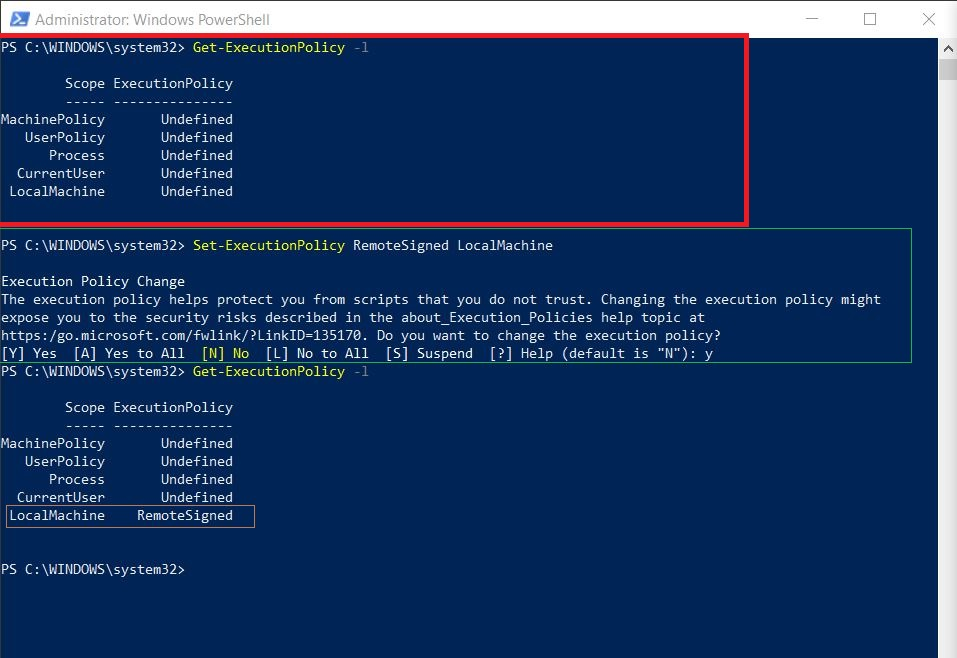
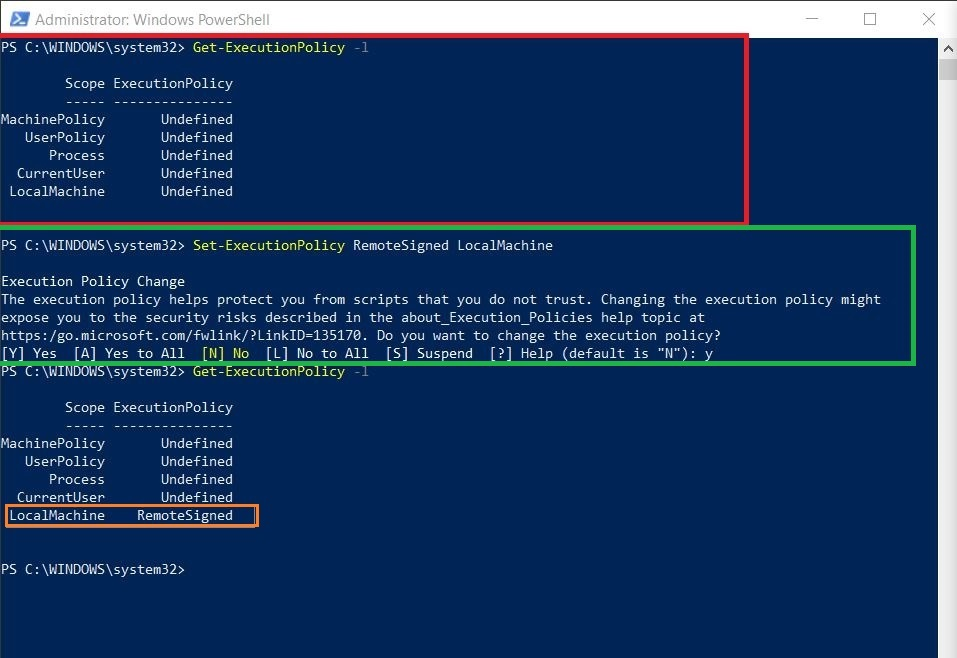
Finished

diff --git a/_posts/2018-01-25-doofus-developer-1-virusTotal-integration.md b/_posts/2018-01-25-doofus-developer-1-virusTotal-integration.md
@@ -43,17 +43,25 @@ imageFolder: "/images/2018-01-25-doofus-developer-1-virusTotal-integration"
 	
 	.youtubeDiv {
 		text-align:center;
+		margin: 10px 0;
 	}
 	
 	  .carousel-inner > .item > img,
   .carousel-inner > .item > a > img {
-      width: 70%;
       margin: auto;
+  }
+  
+  #myCarousel {
+	margin: 20px 0;
+  }
+  
+  .site-nav {
+	line-height: 20px; /* Bootstrap screws up minima theme nav bar, fixing */
   }
 	
 </style>
 
-Part of the <a href="" >Doofus Developer series</a>
+Part of the [Doofus Developer series]({{ site.baseurl }}{% link _posts/2018-01-22-doofus-developer-overview.md %})
 
 Virus scanning downloaded files is the type of task that's not a clear time sink I should automate and yet not
 trivially quick. I like to use <a href="https://www.virustotal.com/#/home/upload">VirusTotal</a> for reasons I'll outline in another post. 
@@ -95,8 +103,7 @@ That wasn't too bad. Now we just need to implement the code we'll call.
 
 #### Thick client failure
 I initially intended to make a Python or Java program that would call out to VirusTotal when the right-click occurs. I registered for VirusTotal's API. 
-I figured they'd have a reference client. I got my API key and promptly started flailing. I have
-no idea why it wouldn't work. It said my API key was not authorized. I put in a fruitless hour and a half with their examples,
+I got my API key and promptly started flailing. It said my API key was not authorized. I put in a fruitless hour and a half with their examples,
 putting a proxy in between to observe the traffic on the wire, and several emails back and forth with a nice Customer Support rep
 (no sarcasm, she was nice, unfortunately, my exact call worked on her end).
 
@@ -130,14 +137,14 @@ easy to create a script that worked in the ISE.
 
 <figure class="jumboFigure">
 	<img src='{{ page.imageFolder }}/Powershell_ISE_Overview.jpg'>
-    <figcaption></figcaption>
+    <figcaption>Not bad at all.</figcaption>
 </figure>
 
-It SHOULD have worked outside it the ISE as well. Instead, on script execution I got this:
+That script __SHOULD__ have worked outside it the ISE as well. Instead, on script execution I got this Unauthorized Access Error:
 
 <figure class="jumboFigure">
 	<img src='{{ page.imageFolder }}/ScriptExecutionPolicyError.jpg'>
-    <figcaption>Fair enough. The link was even helpful.</figcaption>
+    <figcaption>The link and error text was even helpful!</figcaption>
 </figure>
 
 Reading up on <a href="https:/go.microsoft.com/fwlink/?LinkID=135170">the Script Execution Policy</a> explained a lot.
@@ -145,62 +152,62 @@ Windows by default prevents all scripts from running. It's set to "Restricted" o
 No scripts (even ones written locally) will run. 
 
 Reading the different category descriptions we want "RemoteSigning". That enables scripts we've written to run. Remote (downloaded 
-from the internet) scripts can run if they are signed by a valid publisher OR if we use the Unblock-File commandlet. 
-Pretty straightforward.
+from the internet) scripts can run if they are signed by a valid publisher OR if we use the `Unblock-File` commandlet. 
+Pretty straightforward...
 
 What followed was another hour of frustration. 
-
-If you want to descend into madness, read on. To cheerfully jump over the pit of madness to the
-solution, <a href="#Solution">skip below</a>.
-
 
 <figure class="jumboFigure">
 	<img src='{{ page.imageFolder }}/ChangingViewingExecPolicy_Admin.jpg'>
     <figcaption>Looks good...</figcaption>
 </figure>
 
-So what's going on above is I have elevated to Admin and I queried the execution policies using `Get-ExecutionPolicy -l`. 
-We see what we expect. Everything is "Undefined" which defaults to "Restricted". I set the LocalMachine policy to "RemoteSigned" with `Set-ExecutionPolicy RemoteSigned LocalMachine` 
-We want anyone on the machine to be able to run this virus scan script. Then I query the policies again to make sure it took. Perfect.
+So what's going on above is (colors correspond to boxes in the image):
+
+<p style="border:4px solid red; padding: 10px; border-radius: 10px"> 
+	I have elevated to Admin and I queried the execution policies using <code class="highlighter-rouge">Get-ExecutionPolicy -l</code>. 
+	We see what we expect. Everything is "Undefined" which defaults to "Restricted". 
+</p>
+<p style="border:4px solid green; padding: 10px; border-radius: 10px">
+	The green box command sets the LocalMachine policy to "RemoteSigned" with <code class="highlighter-rouge">Set-ExecutionPolicy RemoteSigned LocalMachine</code> 
+</p>
+
+<p style="border:4px solid orange; padding: 10px; border-radius: 10px">
+	We want anyone on the machine to be able to run this virus scan script. Then the orange box shows me checking the policies 
+	again to make sure it took. Perfect.
+</p>
 
 As Admin the script ran. I went to the non-admin PowerShell session... it doesn't work. It doesn't even see the changes....
 
 <figure class="jumboFigure">
 	<img src='{{ page.imageFolder }}/ExecutionPolicyNonAdminNotReflected.jpg'>
-    <figcaption></figcaption>
+    <figcaption>What gives? The <span style="color: red">red boxed policy</span> should say "RemoteSigned"...</figcaption>
 </figure>
+
+If you want to descend into madness, read on. To cheerfully jump to the solution, <a href="#Solution">click here</a>.
 
 So, in increasing order of desperation, here's what I did:
 
 <figure style="float:right">
 	<img style="margin-left: 67px; height:400px" src='{{ page.imageFolder }}/DescentIntoMadness.jpg'>
-    <figcaption>Me after re-reading the same documentation for a third time</figcaption>
+    <figcaption></figcaption>
 </figure>
 
-+ I closed the non-admin window and reopened. Maybe it was holding onto old environment variable values? Nope. 	
-+ __Restart.__ Nope.
-	
-	<li>I __re-read the docs__ on Execution Policy. Seemed like everything was ok. Maybe for some reason it viewed my script as being 
-		remote and needing to be signed??? I read about how Windows tracks file and ran the <a href="https://docs.microsoft.com/en-us/powershell/module/microsoft.powershell.utility/unblock-file?view=powershell-5.1">Unblock-File commandlet</a>.
-        No relief there.
-    </li>
-	<li>Check the Windows Registry to view the policies directly. They looked right...
-	</li>
-    <li>Let's try setting the lowest security level of "Bypass" from the Admin. Nope.
-	</li>
-	<li>Let's set all the categories to "Bypass". Maybe its not using the LocalMachine value (no idea why). Nope.
-	</li>
-    <li>Started having crazy thoughts about how the Windows permissions model might work. Maybe somehow settings made by the Admin 
+1. I closed the non-admin window and __reopened__. Maybe it was holding onto old environment variable values? 
+2. __Restarted.__ 
+3. I __re-read the docs__ on Execution Policy. Seemed like everything was ok. Maybe for some reason it viewed my script as being 
+		remote and needing to be signed??? I read about how Windows tracks files and ran the <a href="https://docs.microsoft.com/en-us/powershell/module/microsoft.powershell.utility/unblock-file?view=powershell-5.1">Unblock-File commandlet</a>.
+4. Check the Windows Registry to view the policies directly. They looked right...
+5. Let everything through. I set the LocalMachine policy to the lowest security level of "Bypass" from the Admin. Nope.
+6. Set every category to "Bypass". Maybe its not using the LocalMachine value (no idea why). Nope.
+7. Started having crazy thoughts about how the Windows permissions model might work. Maybe somehow settings made by the Admin 
 		account only applied to it? But then if you can't set them in non-admin, without becoming Admin, how do you ever set them for
 		non-admin? That made no sense.
-    </li>
-    <li>Walked around the block.
-	</li>
-    <li>I started digging into vaguely conspiratorial StackOverflow threads about PowerShell bugs and incorrect
+8. Walked around the block.
+9. I __started digging into vaguely conspiratorial StackOverflow threads__ about PowerShell bugs and incorrect
         documentation.
-    </li>
-    <li>Other things I've forgotten</li>
-</ol>
+10. Other things I've forgotten
+
 
 <h2 id="Solution">The last place you look</h2>
 And then I noticed a subtle difference. Can you spot it? The answer is on slide 3.
@@ -254,12 +261,10 @@ Modified to remove animations, auto scrolling, and large ugly side bars
   </div>
 
 
-
 PowerShell x86 vs PowerShell. Were they considered different applications (with different policies and settings) by the OS? Yes...
 
-
-
-There are 2 PowerShells, but no God, what a world. Now everything works.
+There are 2 seperate PowerShells. x86 and unlabeled (presumably x64). What a world. What a time to be alive. I'm sure I saw the suffix at some point, it just wasn't even a consideration. 
+My full thought on going to the start menu was "PowerShell. I need a PowerShell console. Elevated as Admin". Making sure I was setting the properties of the correct one fixed it. 
 
 ### The final PowerShell script:
 ```powershell
@@ -284,7 +289,9 @@ Start-Process -FilePath $browserLocation $virusTotalURL
 
 ```
 
-
-So what did I get for my 4 hours in? If we assume I spend a minute or 2 a day on scanning files in 3-6 months I'm
-breaking even. If other people gets some use out of it in a Kum ba yah, good karma type of way it feels like a faster break even.
-Plus it's a source of writing material :).
+So what did I get for my 4 hours in? 
+1. A reminder to challenge all your assumptions if things are bizarre.
+2. If we assume I spend a minute or 2 a day on scanning files I'm
+breaking even on my time investment in 3-6 months. If other people gets some use out of it in a Kum ba yah, good karma type of way 
+it feels like a faster break even. 
+3. Writing material :P
